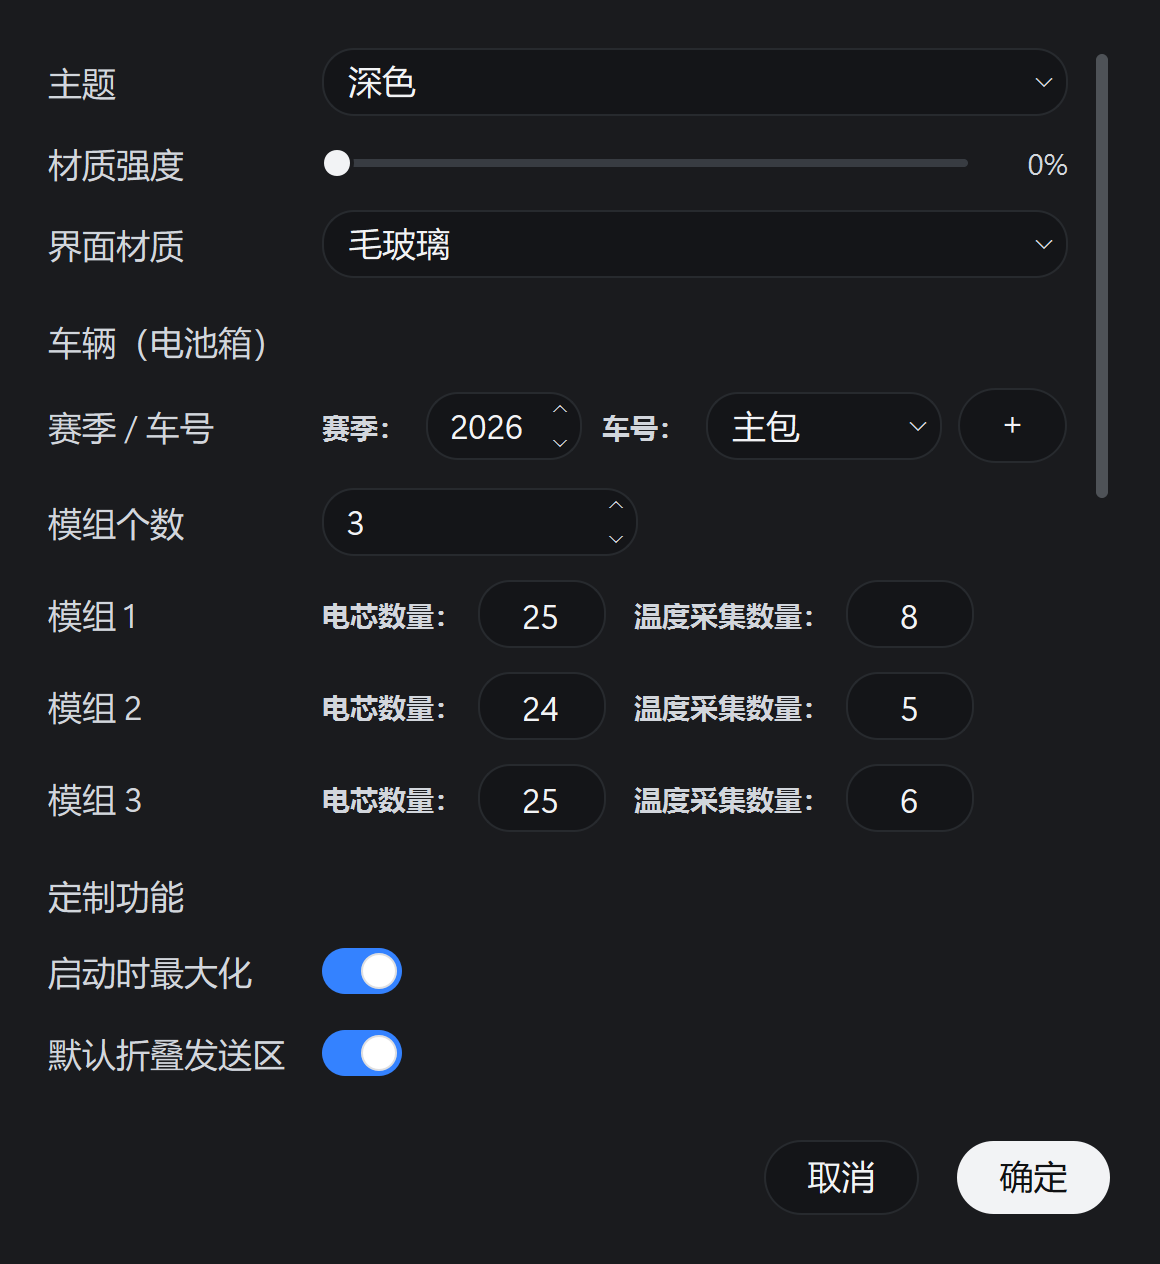
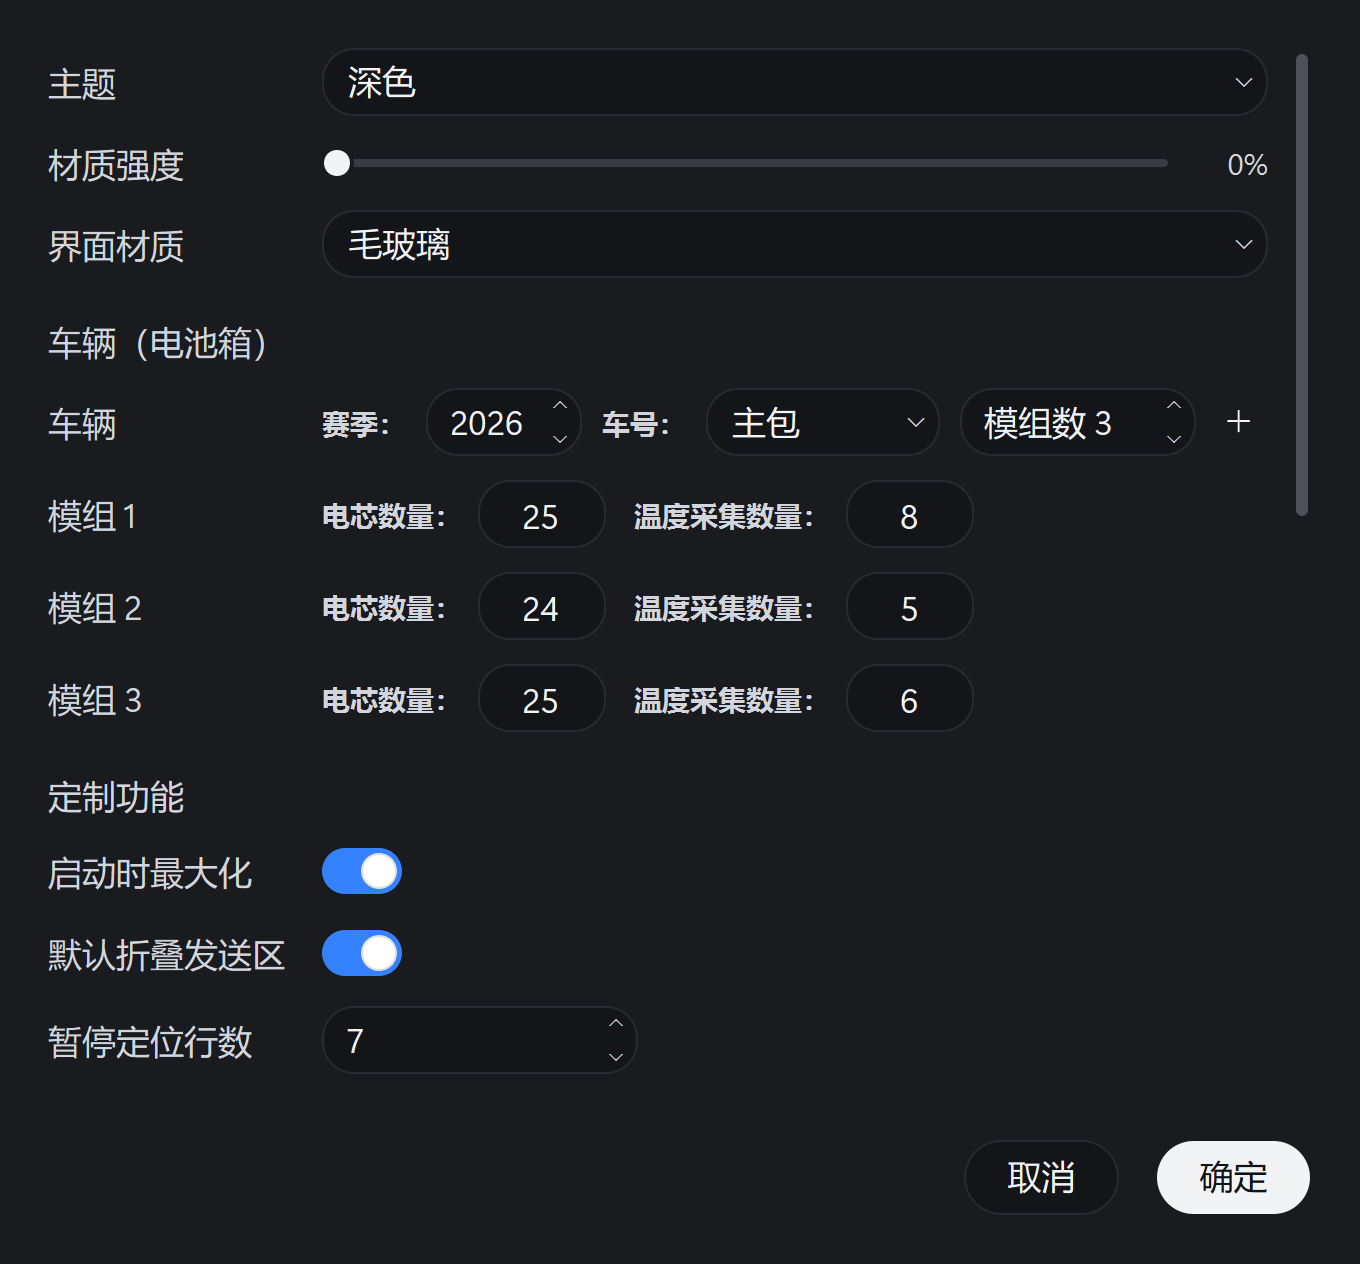
v2.2：加号去边框、赛季/车号/模组数并一排、页头显示当前车

diff --git a/ui_settings.py b/ui_settings.py
@@ -38,8 +38,8 @@ from ui_controls import (
     ChevronComboBox, ChevronSpinBox, GlassSlider, IconButton, InkButton, Switch,
 )
 from ui_theme import (
-    DEFAULT_GLASS, GAP, GLYPH_REFRESH, detect_system_scheme, mono_font, qcolor,
-    rx_accent, stamp_accent, ui_font,
+    DEFAULT_GLASS, GAP, GLYPH_ADD, GLYPH_REFRESH, detect_system_scheme, mono_font,
+    qcolor, rx_accent, stamp_accent, ui_font,
 )
 
 # (显示名, 存进配置的值)
@@ -55,6 +55,8 @@ BUTTON_COLUMNS = 3
 MODULE_INPUT_W = 64
 # 「赛季」年份框的宽度：4 位数 + 内边距 + 右侧 chevron
 SEASON_SPIN_W = 78
+# 车辆那一排里的「模组个数」框宽：要装下前缀「模组 」+ 2 位数 + chevron
+MODULE_COUNT_W = 118
 
 
 class _NameDialog(QDialog):
@@ -124,10 +126,10 @@ class SettingsDialog(QDialog):
         super().__init__(parent)
         self.setWindowTitle("设置")
         self.setModal(True)
-        # 最小宽度 540 → 580（2026-10-22 第六轮）：车辆拆成「赛季 + 车号 + ＋」
-        # 之后这一行要 500 出头，540 时视口只有 482 —— 「＋」被裁掉半个
-        # （实测截图可见）。580 视口 522，整行放得下。
-        self.setMinimumWidth(580)
+        # 最小宽度 540 → 580 → 630（2026-10-22）：车辆那一排现在是
+        # 「赛季 / 车号 / 模组个数 / ＋」四个控件并排，580 视口 522 放不下
+        # （实测正文最少要 567），630 视口 572 刚好，且不至于把面板撑得太宽。
+        self.setMinimumWidth(650)
         self._on_glass = on_glass
         self._on_buttons = on_buttons
         self._on_custom = on_custom
@@ -397,7 +399,12 @@ class SettingsDialog(QDialog):
         if _number_line is not None:
             _number_line.editingFinished.connect(self._on_vehicle_number_typed)
 
-        self.btn_vehicle_new = InkButton("+", variant="ghost")
+        self.btn_vehicle_new = IconButton(
+            GLYPH_ADD, "在当前赛季下新建车号", size=28, glyph_size=14,
+            hover_fill=False)
+        # ⛔ 用户 2026-10-22：「这个加号不需要有边框」—— 不要用 ghost 药丸按钮
+        #    （浅底 + 描边），改成**无静息底、无悬停底**的图标按钮：反馈只靠
+        #    字形由 ink_2 提亮到 ink（和底栏那颗齿轮同一档）。
         self.btn_vehicle_new.setToolTip(
             "在当前赛季下新建车号：默认「新车 N」，结构按当前配置预填"
             "（旧模组个数 >0 就用它，否则 3 模组 × 25 电芯 × 8 温度）")
@@ -411,6 +418,18 @@ class SettingsDialog(QDialog):
         self.lbl_vehicle_hint.setMinimumWidth(1)      # 不能是 0（同日志行，见上）
         self.lbl_vehicle_hint.setVisible(False)
 
+        # 模组个数（用户 2026-10-22 第三轮：赛季 / 车号 / 模组个数**并到一排**）
+        self.spin_vehicle_modules = ChevronSpinBox()
+        self.spin_vehicle_modules.setRange(0, 64)
+        # ⛔ 不再给它单独一个「模组个数：」标签（那一栏要多 72px，整排就顶出面板）：
+        #    单位写进框里当**前缀**，和赛季/车号两个框并排时宽度才够。
+        self.spin_vehicle_modules.setPrefix("模组数 ")
+        self.spin_vehicle_modules.setFixedWidth(MODULE_COUNT_W)
+        self.spin_vehicle_modules.setToolTip(
+            "模组个数 = 下面「模组 i」的行数；新增的模组沿用最后一个模组的配置，"
+            "缩短则从末尾截断")
+        self.spin_vehicle_modules.valueChanged.connect(self._on_vehicle_modules_changed)
+
         pick_row = QHBoxLayout()
         pick_row.setSpacing(8)
         pick_row.addWidget(self._inline_caption("赛季："))
@@ -418,24 +437,15 @@ class SettingsDialog(QDialog):
         pick_row.addSpacing(2)
         pick_row.addWidget(self._inline_caption("车号："))
         pick_row.addWidget(self.cmb_vehicle_number, 1)
+        pick_row.addSpacing(2)
+        pick_row.addWidget(self.spin_vehicle_modules)
         pick_row.addWidget(self.btn_vehicle_new)
         pick_row.addWidget(self.lbl_vehicle_hint)
 
-        # ---- 模组个数行：0 = 不配（退回旧的三个全局参数） ----
-        self.spin_vehicle_modules = ChevronSpinBox()
-        self.spin_vehicle_modules.setRange(0, 64)
-        self.spin_vehicle_modules.setFixedWidth(SPIN_COLUMN_W)
-        self.spin_vehicle_modules.setToolTip(
-            "模组个数 = 下面「模组 i」的行数；新增的模组沿用最后一个模组的配置，"
-            "缩短则从末尾截断")
-        self.spin_vehicle_modules.valueChanged.connect(self._on_vehicle_modules_changed)
-
         self._vehicle_rows: dict[str, tuple[QLabel, QWidget]] = {
-            "season": (self._label("赛季 / 车号"), self._row(pick_row)),
-            "modules": (self._label("模组个数"), self.spin_vehicle_modules),
+            "season": (self._label("车辆"), self._row(pick_row)),
         }
         form.addRow(*self._vehicle_rows["season"])
-        form.addRow(*self._vehicle_rows["modules"])
 
         # 逐模组行插在这个位置（= 本节之后、「定制功能」之前）。
         # ⚠ 用 insertRow/removeRow 按**行号**增删，不用容器套布局：套一层容器的话
@@ -491,13 +501,9 @@ class SettingsDialog(QDialog):
         season_spin.blockSignals(False)
         self._refresh_number_combo()
 
-        # 选车行永远在；模组个数行只在选了车时才有意义。
+        # 选车行永远在（赛季 / 车号 / 模组个数在同一排，见构造处的说明）。
         self._vehicle_rows["season"][0].setVisible(True)
         self._vehicle_rows["season"][1].setVisible(True)
-        for key in ("modules",):
-            label, field = self._vehicle_rows[key]
-            label.setVisible(has_vehicle)
-            field.setVisible(has_vehicle)
         self._sync_grid_params_visibility()
 
         spin = self.spin_vehicle_modules

diff --git a/ui_brand.py b/ui_brand.py
@@ -256,6 +256,10 @@ class BrandHeader(QWidget):
         super().__init__(parent)
         self._product = product
         self._product_face = ui_font(13.5)
+        # 当前赛季 + 车号（用户 2026-10-22：显示在「串口调试助手」下面）。
+        # 空串 = 没选车，不画第二行。
+        self._vehicle_text = ""
+        self._vehicle_face = ui_font(10.5)
         self._lockup: QPixmap | None = None
         self._dpr = 1.0
         self._load()
@@ -299,6 +303,18 @@ class BrandHeader(QWidget):
         self._load()
         self.update()
 
+    def set_vehicle(self, text: str) -> None:
+        """页头副标题：当前赛季 + 车号（空串 = 不显示）。
+
+        只 update() 不 updateGeometry()：标题块在页头里是**右对齐居中**的，
+        文字长短不改变页头高度，重绘一下就够。
+        """
+        value = str(text or "").strip()
+        if value == self._vehicle_text:
+            return
+        self._vehicle_text = value
+        self.update()
+
     def paintEvent(self, event) -> None:
         # 换显示器会换 DPI，这里顺手校一次；就是一次浮点比较，可以每帧做
         if self._screen_ratio() != self._dpr:
@@ -325,14 +341,32 @@ class BrandHeader(QWidget):
 
         # 产品名右对齐到最右端。窗口太窄时宁可不画，也不让它压到队标上 ——
         # 队标是品牌资产，任何情况下不能被盖住。
+        # 有当前车号时画成**两行**（产品名 + 赛季/车号），整体在页头里竖直居中。
         metrics = QFontMetricsF(self._product_face)
+        sub_metrics = QFontMetricsF(self._vehicle_face)
         text_w = metrics.horizontalAdvance(self._product)
+        if self._vehicle_text:
+            text_w = max(text_w, sub_metrics.horizontalAdvance(self._vehicle_text))
         if right - text_w > lockup_right + 24.0:
+            show_sub = bool(self._vehicle_text)
+            prod_h = metrics.height()
+            sub_h = sub_metrics.height()
+            gap = 2.0
+            block_h = prod_h + (sub_h + gap if show_sub else 0.0)
+            top = max(0.0, (height - block_h) / 2.0)
             painter.setFont(self._product_face)
             painter.setPen(qcolor("ink"))
-            painter.drawText(QRectF(right - text_w, 0.0, text_w, height),
+            painter.drawText(QRectF(right - text_w, top, text_w, prod_h),
                              Qt.AlignmentFlag.AlignRight | Qt.AlignmentFlag.AlignVCenter,
                              self._product)
+            if show_sub:
+                painter.setFont(self._vehicle_face)
+                painter.setPen(qcolor("ink_3"))
+                painter.drawText(QRectF(right - text_w, top + prod_h + gap,
+                                        text_w, sub_h),
+                                 Qt.AlignmentFlag.AlignRight
+                                 | Qt.AlignmentFlag.AlignVCenter,
+                                 self._vehicle_text)
 
         # 页脚一条细线，把页头和内容分开 —— 不加框，只留线
         painter.setPen(QPen(qcolor("line"), 1.0))

diff --git a/main_window.py b/main_window.py
@@ -830,6 +830,7 @@ class MainWindow(QMainWindow):
 
         self.brand_header = BrandHeader("串口调试助手")
         inner.addWidget(self.brand_header)
+        self._refresh_vehicle_badge()
 
         # 主体：左侧收发区 + 右侧串口配置栏（配置固定宽度，收发区吃掉剩余空间）
         body = QHBoxLayout()
@@ -3729,6 +3730,24 @@ class MainWindow(QMainWindow):
             self._vehicle_relayout_timer = timer
         timer.start(max(0, int(delay_ms)))
 
+    def _refresh_vehicle_badge(self) -> None:
+        """把当前赛季 + 车号画到页头「串口调试助手」下面（用户 2026-10-22 要求）。
+
+        没选车时副标题是空串（页头只显示产品名）。这里只读 customization，
+        改设置时由 ``_preview_custom`` 的 "vehicle" 分支顺带刷新。
+        """
+        season, number = customization.split_vehicle(
+            customization.current_vehicle())
+        if not number:
+            text = ""
+        elif season:
+            text = f"{season} 赛季 · {number}"
+        else:
+            text = number
+        header = getattr(self, "brand_header", None)
+        if header is not None:
+            header.set_vehicle(text)
+
     def _relayout_vehicle_grid(self) -> None:
         """计时器到点：按**当前**车辆结构重排已显示的接收文本（幂等，没变就不动）。"""
         if self._relayout_rx_document():
@@ -5310,6 +5329,7 @@ class MainWindow(QMainWindow):
             # 换材质**当场**生效（用户点名"实时生效、不用重启"）
             self._apply_material(str(value))
         elif key == "vehicle":
+            self._refresh_vehicle_badge()
             self._schedule_vehicle_relayout()
 
     def _preview_buttons(self, hidden: list[str]) -> None:

diff --git a/ui_controls.py b/ui_controls.py
@@ -1394,6 +1394,19 @@ class ChevronSpinBox(QSpinBox):
         """
         event.ignore()
 
+    def minimumSizeHint(self) -> QSize:              # noqa: N802 (Qt 命名)
+        """显式设过最小宽度时，**以它为准**。
+
+        ⛔ 不覆写这条，布局不会理 ``setFixedWidth``：QAbstractSpinBox 的
+        minimumSizeHint 是按"最长数值 + 左右 padding + 箭头"算的（实测 78 宽的
+        赛季框报 111），于是同一排里的控件集体外溢 —— 2026-10-22 把
+        「赛季 / 车号 / 模组个数」并到一排时，加号直接被裁掉。
+        """
+        hint = super().minimumSizeHint()
+        if self.minimumWidth() > 0:
+            hint.setWidth(min(self.minimumWidth(), hint.width()))
+        return hint
+
     def _place_edit(self) -> None:
         """把行内编辑框摆到让**文字墨迹**在控件里竖直居中的位置。
 

diff --git a/version.py b/version.py
@@ -30,9 +30,9 @@ SETUP_ASSET_SUFFIX = ".exe"
 # 空串 = 该版本发布时尚未记录（自动更新会退回大小/跳过校验）。
 # ⚠ 升版本时必须先清空成空串：留着**上一版**的哈希会让"拉到的版本文件没解析出
 #    哈希"时的兜底校验拿旧哈希去比新包，直接把更新卡死。发布完由脚本写回。
[2 lines of base64/hex data omitted]
 
 # 当前 Release 里**安装包**的 SHA256（同上，由发布脚本写回）。
 # 空串 = 尚未记录，走大小/跳过校验。
[2 lines of base64/hex data omitted]
 

diff --git a/ui_theme.py b/ui_theme.py
@@ -348,6 +348,7 @@ GLYPH_CHEVRON_DOWN = GLYPH_COLLAPSE
 GLYPH_CHEVRON_UP = GLYPH_EXPAND_CHEVRON
 GLYPH_SEARCH = "\uE721"           # 放大镜
 GLYPH_CLOSE = "\uE711"            # 关闭（叉）
+GLYPH_ADD = "\uE710"              # 加号（新增）
 GLYPH_PAUSE = "\uE769"            # 暂停（两竖）
 GLYPH_PLAY = "\uE768"             # 播放（三角）
 GLYPH_COPY = "\uE8C8"             # 复制（两张纸）

diff --git a/README.md b/README.md
@@ -59,10 +59,11 @@
   行高 240ms 收展；恢复追底也走 180ms 补间。
 - **历史数据改「打开/关闭」开关**，带展开提示条动画。
 - **设置面板「AI 接入」改名「MCP Service」**（功能不变，文案更直白）。
-- **多车型档案**：设置里新增「车辆（电池箱）」，按**赛季 + 车号**管理（赛季选年份、
-  车号下拉 + 「＋」新建，改车号就是改名）；删除在车号下拉里，每条右端一个 ×，**要二次确认**；
-  选车即定模组个数，每个模组的「电芯数量 / 温度采集数量」手动输入；接收区按
-  “一排 = 一个模组”排版，装不下时在模组内均衡拆行，不漏点、不留孤格。
+- **多车型档案**：设置里新增「车辆（电池箱）」，按**赛季 + 车号**管理，赛季、车号、
+  模组个数**并排一行**（赛季选年份、车号下拉、右边 ＋ 新建，改车号就是改名）；
+  删除在车号下拉里，每条右端一个 ×，**要二次确认**；选车即定模组个数，每个模组的
+  「电芯数量 / 温度采集数量」手动输入；接收区按“一排 = 一个模组”排版，装不下时在
+  模组内均衡拆行，不漏点、不留孤格。**页头「串口调试助手」下面常显当前赛季与车号**。
   没选车时行为与旧版完全一致。
 - **蓝牙设备下拉**：修掉打开时“满高闪一帧再缩回去”的跳变，弹层宽度按屏幕封顶、
   位置夹进屏幕可用区（不再有半截跑出屏幕），超长条目用省略号。
@@ -138,6 +139,9 @@
   免得你以为在看 A 却在改 B。
 - **新建用「＋」**：在当前赛季下新建车号，结构沿用当前配置；**改名就直接改写车号框**，
   回车或点别处生效，重名和空车号会被拒绝并回滚。
+- **一行看全**：赛季 / 车号 / 模组数 在同一排，改哪一项都是立刻落盘、立刻生效。
+- **页头常显当前车**：主窗口标题下面会写「2026 赛季 · E74」，不用打开设置也知道现在按
+  哪台车的结构排版。
 - **删除在车号下拉里**：展开车号，每条右端一个 ×，点了要**二次确认**才真删
   （删的是整套模组结构，已接收的数据不受影响）。
 - **选车即定模组个数**：选中一台车，它的模组个数就生效；改模组个数，下面的逐模组行
